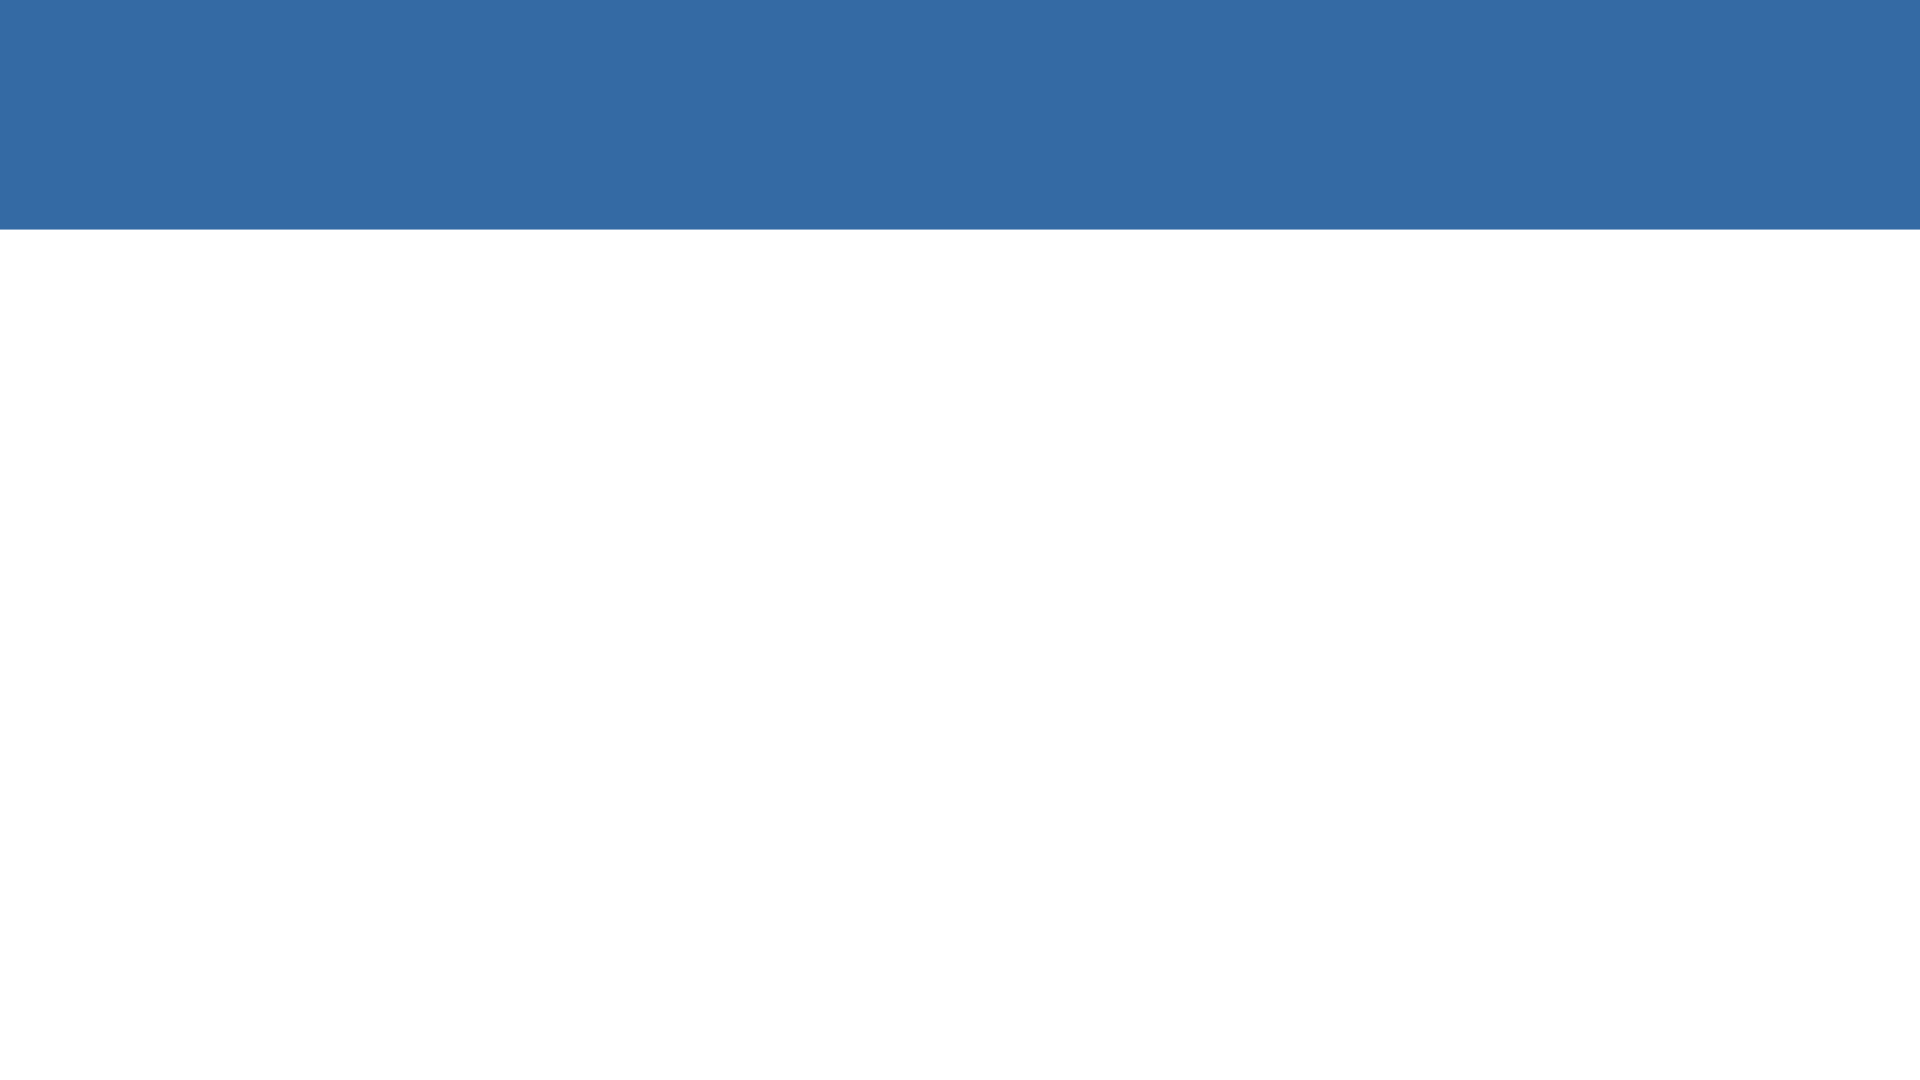
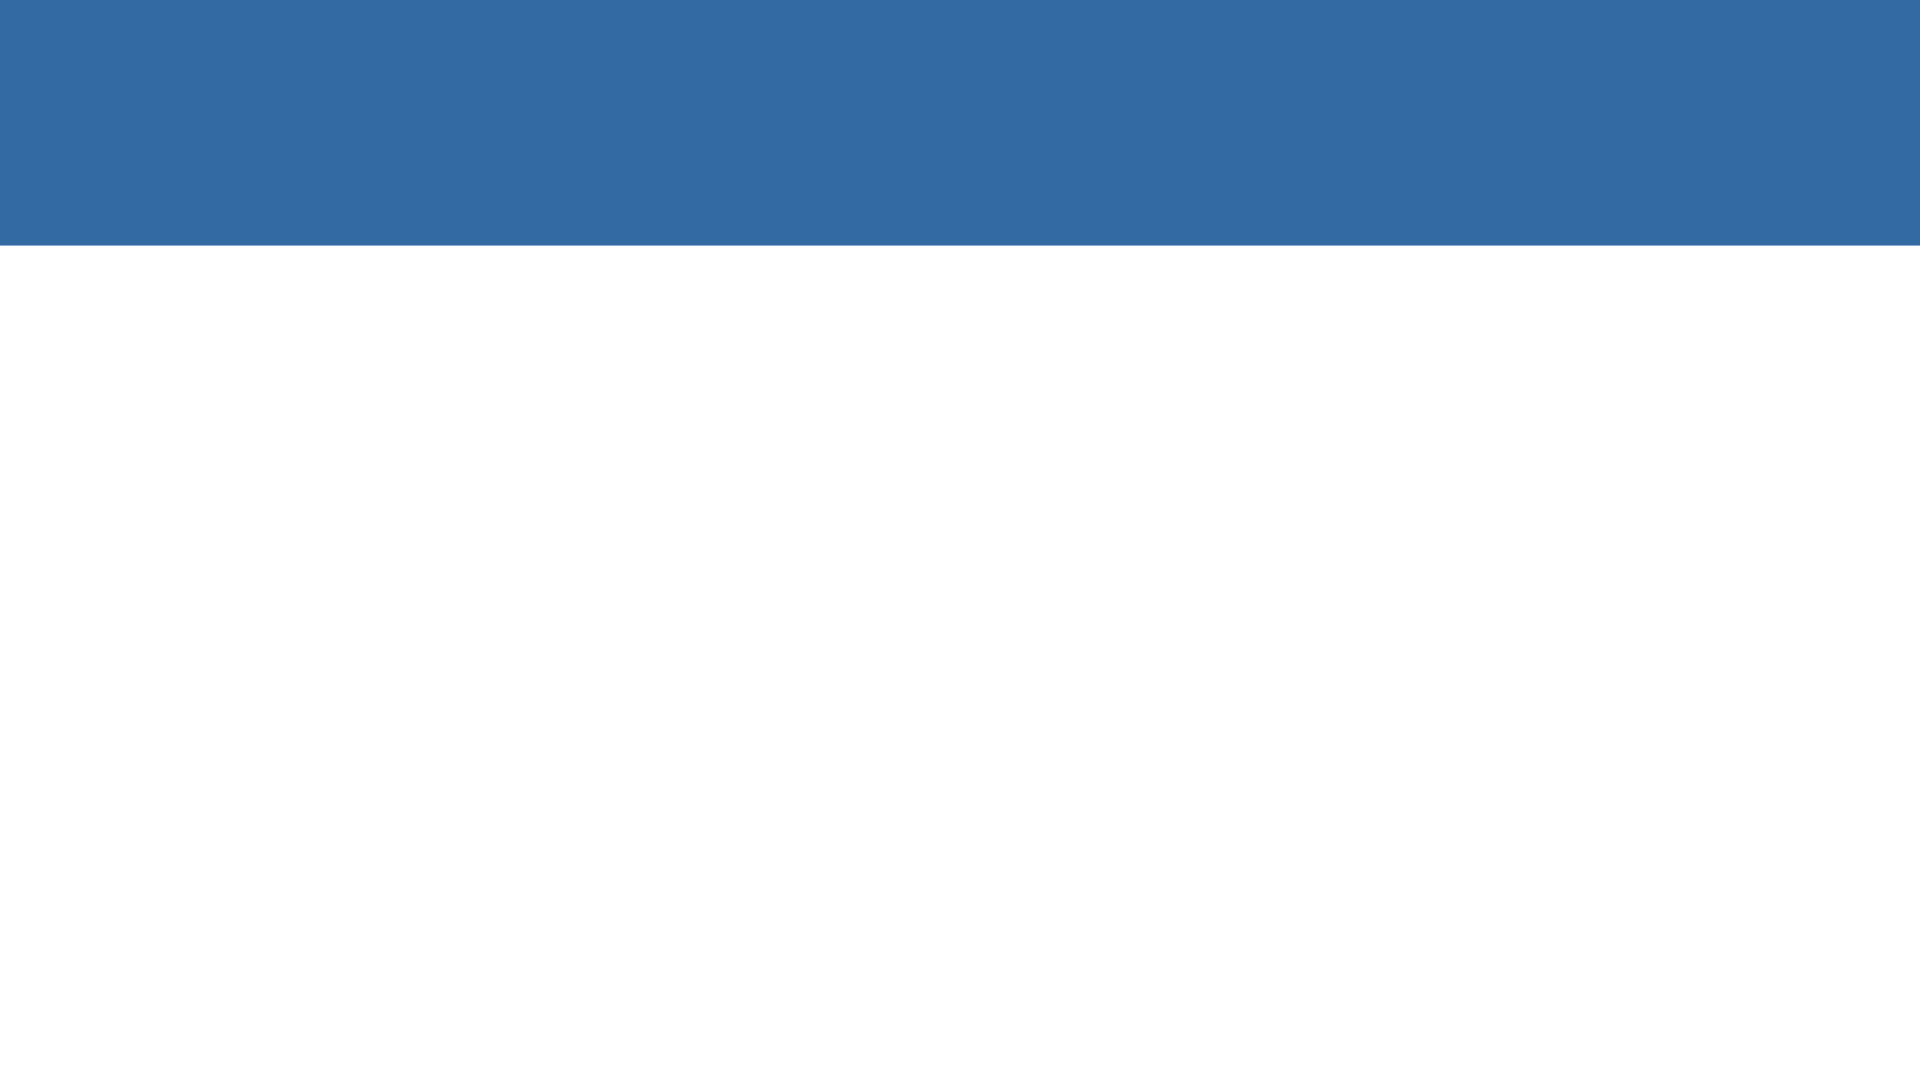
fixing header size issue

Changed region(s): [[0.0, 0.2139, 1.0, 0.2444]]

diff --git a/index.html b/index.html
@@ -12,7 +12,7 @@
     <!--<a href='http://flamingtext.com/'>
         <img src="images/new_header.png" class="header center" height = 75px alt="heading">
     </a>-->
-    <div><h1>ETHAN PHAN</h1></div>
+    <div class = "header"><h1>ETHAN PHAN</h1>
 
     <ul class = "nav">
         <li class = "nav"><a href="index.html" class = "nav">Home</a></li>
@@ -23,7 +23,7 @@
         <li class = "nav" style="float:right"><a href="images/resume-updated.pdf" class = "nav">Resume</a></li>
         <li class = "nav" style="float:right"><a href="https://github.com/ELPhanNYC" class = "nav">GitHub</a></li>
         <li class = "nav" style="float:right"><a href="https://www.linkedin.com/in/ethan-phan-381562203/" class = "nav">Linkedin</a></li>
-      </ul>
+      </ul></div>
     <br>
     <h2>A little introduction...</h2>
 

diff --git a/personal_web.css b/personal_web.css
@@ -9,6 +9,13 @@ body{
     margin-left:auto;
     margin-right:auto;		
 }
+div.header{
+    display: inline-block;
+    background-color: #346aa4;
+    width: 100%;
+    min-height: auto;
+
+}
 
 h1 {
     text-align: center;
@@ -79,6 +86,7 @@ ul.nav {
 }
 li.nav {
     float:left;
+    display: inline-block;
 }
 a:link{
     color:#6d8088;
